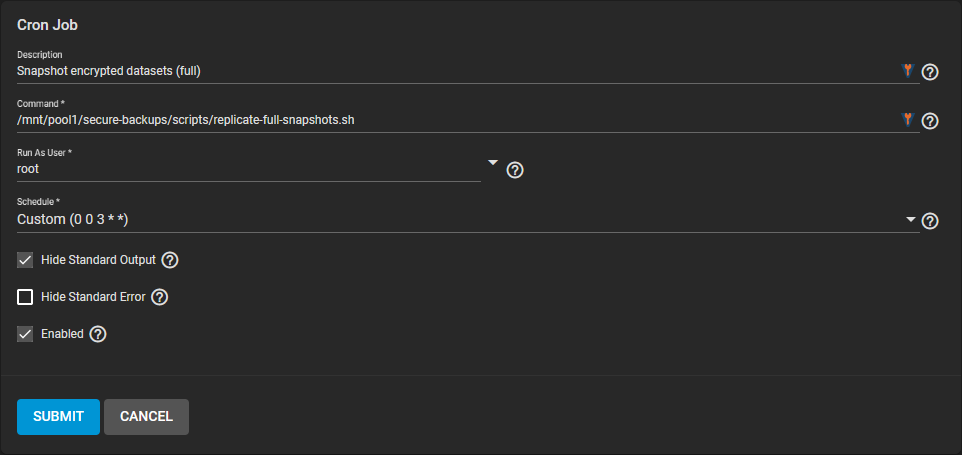
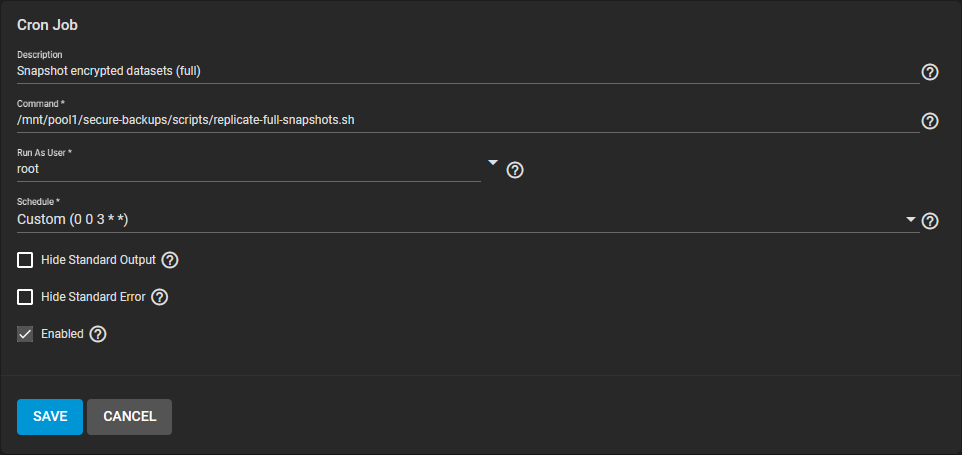
work in progress

diff --git a/content/notes/zfs-encrypted-backups/index.md b/content/notes/zfs-encrypted-backups/index.md
@@ -16,11 +16,13 @@ One of the neat features of ZFS is that you can make backups of encrypted data w
 
 I have some files that I access rarely but I still want to keep on an encrypted dataset.
 
-On my previous Synology NAS, there was no way to back up an encrypted volume. If files were on an encrypted volume, the data was completely inaccessible to anything until you unlocked it. That made it difficult to
+On my previous Synology NAS, there was no way to back up an encrypted volume. If files were on an encrypted volume, the data was completely inaccessible to anything until you unlocked it. That meant that whenever the drive is locked, I can't update my backups for that volume. For most of my data, that's okay, but what about volumes I access infrequently?
 
-TrueNAS is better! You can take snapshots of an encrypted dataset and even replicate an encrypted dataset to another server without ever decrypting the data. This seemed like a great way for me to maintain backups of data I wanted to back up without having to decrypte it all the time.
+TrueNAS is better! You can take snapshots of an encrypted dataset and even replicate an encrypted dataset to another server without ever decrypting the data. This seemed like a great way for me to maintain backups of data I wanted to back up without having to decrypt it all the time.
 
-## Trying to
+It took a bit of tinkering and creating manual scripts, but I got it working.
+
+## Trying to back up encrypted datasets through TrueNAS
 
 To demonstrate what I'm trying to do, I created a dataset called `diary-entries`.
 
@@ -154,7 +156,180 @@ $ cat /mnt/pool1/diary-entries-backup3/2022-07-05.txt
 I enjoy Taylor Swift, but I don’t want anyone to know
 ```
 
-Hooray! It worked. I can
+Hooray! It worked.
+
+I can back up an encrypted dataset to a file on an unencrypted dataset, then recreate the encrypted dataset from that snapshot.
+
+## Creating incremental backups
+
+One of the datasets I plan to back up this way is for video captures of my screencasts. That dataset is currently 12 GB and will likely grow. If I'm performing daily backups, I don't want a new 120 GB snapshot file every day.
+
+Fortunately, ZFS supports incremental backups. If you snapshot a dataset on Monday and then again on Tuesday, you don't have to create a full backup file for both Monday and Tuesday. Instead, your Tuesday backup can just be the delta between the two snapshots.
+
+To demonstrate, I'll add a little more to my `diary-entries` dataset:
+
+```bash
+echo "Upon reflection, I'm not ashamed of how much I enjoy Blank Space" \
+  > /mnt/pool1/diary-entries/2022-07-06.txt
+```
+
+And now I'll create a new snapshot that includes the latest entry:
+
+```bash
+zfs snapshot pool1/diary-entries@2022-07-06
+```
+
+And now I'll create an incremental backup relative to the `2022-07-05` snapshot:
+
+```bash
+zfs send \
+  --raw \
+  --verbose \
+  -i pool1/diary-entries@2022-07-05 \
+  pool1/diary-entries@2022-07-06 \
+  > /mnt/pool1/diary-entries-backup/snapshot@2022-07-06
+```
+
+Success! It created the new incremental backup:
+
+```bash
+$ du -h /mnt/pool1/diary-entries-backup/*
+ 24K    /mnt/pool1/diary-entries-backup/snapshot@2022-07-05
+6.5K    /mnt/pool1/diary-entries-backup/snapshot@2022-07-06
+```
+
+It's a little silly on this demo because my files are tiny anyway, but you can still see that the second snapshot is substantially smaller than the first because it contains only the changes since the `2022-07-05` snapshot.
+
+## Scripting backups
+
+Now that I understand the mechanics, it's time to create a shell script so that I can set up TrueNAS to run this backup task on a regular schedule.
+
+To start, I'll create a file called `settings.sh` to define everything that's specific to my system:
+
+```bash
+readonly POOL="mypool"
+readonly BASE_DIR="/mnt/${POOL}/encrypted-backups"
+readonly FULL_SNAPSHOTS_DIR="${BASE_DIR}/full-snapshots"
+readonly INCREMENTAL_SNAPSHOTS_DIR="${BASE_DIR}/incremental-snapshots"
+
+DATASETS=()
+DATASETS+=("documents")
+DATASETS+=("music")
+DATASETS+=("emails")
+readonly DATASETS
+```
+
+And now I'll make a script that creates full backups of my datasets:
+
+```bash
+#!/bin/bash
+
+# Create full snapshots of datasets in DATASETS array.
+
+set -eux
+
+. settings.sh
+
+mkdir -p "${FULL_SNAPSHOTS_DIR}"
+
+TIMESTAMP="$(date -Iseconds | sed 's/://g' | sed 's/+0000/Z/g')"
+readonly TIMESTAMP
+
+for DATASET in "${DATASETS[@]}"; do
+  # Take a snapshot.
+  SNAPSHOT_NAME="${POOL}/${DATASET}@${TIMESTAMP}"
+  zfs snapshot "${SNAPSHOT_NAME}"
+
+  # Write the snapshot to a file.
+  OUTPUT_FILENAME="${SNAPSHOT_NAME//${POOL}\//}"
+  zfs send --raw --verbose "${SNAPSHOT_NAME}" > "${FULL_SNAPSHOTS_DIR}/${OUTPUT_FILENAME}"
+done
+```
+
+The script iterates through each of the datasets I defined in `settings.sh`, creates a new snapshot, then creates a full backup of that dataset.
+
+Next, I want a script that creates incremental backups:
+
+```bash
+#!/bin/bash
+
+# Create incremental snapshots of datasets in DATASETS array relative to their
+# last full snapshot.
+
+set -eux
+
+. settings.sh
+
+mkdir -p "${INCREMENTAL_SNAPSHOTS_DIR}"
+
+TIMESTAMP="$(date -Iseconds | sed 's/://g' | sed 's/+0000/Z/g')"
+readonly TIMESTAMP
+
+for DATASET in "${DATASETS[@]}"; do
+  # Take a snapshot.
+  INCREMENTAL_SNAPSHOT="${POOL}/${DATASET}@${TIMESTAMP}"
+  zfs snapshot "${INCREMENTAL_SNAPSHOT}"
+
+  # Find the most recent full snapshot.
+  BASE_SNAPSHOT_FILENAME="$(basename "$(ls -tr "${FULL_SNAPSHOTS_DIR}/${DATASET}"* | tail -1)")"
+  BASE_SNAPSHOT="${POOL}/${BASE_SNAPSHOT_FILENAME}"
+
+  # Write the incremental snapshot to a file.
+  OUTPUT_FILENAME="${INCREMENTAL_SNAPSHOT//${POOL}\//}"
+  OUTPUT_PATH="${INCREMENTAL_SNAPSHOTS_DIR}/${OUTPUT_FILENAME}"
+  zfs send --raw --verbose -i "${BASE_SNAPSHOT}" "${INCREMENTAL_SNAPSHOT}" \
+    > "${OUTPUT_PATH}"
+done
+```
+
+## Recovering a backup
+
+I also created a convenience script called `snapshot-to-dataset.sh` that translates backup files back into a ZFS dataset:
+
+```bash
+#!/bin/bash
+#
+# Recover a dataset from an encrypted snapshot.
+#
+# Usage:
+#   ./snapshot-to-dataset.sh new-dataset-name full-snapshot-path [incremental-snapshot-path]
+
+set -ex
+
+. settings.sh
+
+NEW_DATASET_NAME="$1"
+readonly NEW_DATASET_NAME
+
+FULL_SNAPSHOT_PATH="$2"
+readonly FULL_SNAPSHOT_PATH
+
+INCREMENTAL_SNAPSHOT_PATH="$3"
+readonly INCREMENTAL_SNAPSHOT_PATH
+
+set -u
+
+# Restore from base snapshot
+zfs receive "${POOL}/${NEW_DATASET_NAME}" < "${FULL_SNAPSHOT_PATH}"
+
+if [[ -n "${INCREMENTAL_SNAPSHOT_PATH}" ]]; then
+  # Update dataset to latest incremental snapshot
+  zfs receive "${POOL}/${NEW_DATASET_NAME}" < "${INCREMENTAL_SNAPSHOT_PATH}"
+fi
+```
+
+Before, we just called `zfs receive`, but it gets a little complicated when we're working with incremental backups, so the convenience script simplifies things. To recover my `diary-entries` dataset using my full backup and incremental backup, I'd run the following command:
+
+```bash
+./snapshot-to-dataset.sh \
+  diary-entries-backup4 \
+  /mnt/pool1/diary-entries-backup/snapshot@2022-07-05 \
+  /mnt/pool1/diary-entries-backup/snapshot@2022-07-06
+```
+
+And it works! It recovers a dataset using my full backup and incremental backup:
+
+{{<img src="dataset4.png">}}
 
 ## The clean solution
 
@@ -167,3 +342,9 @@ I've created a set of convenience scripts:
 {{<img src="monthly-cron.png">}}
 
 Starting at 3 AM because sometimes I'm still awake and using my computer at midnight.
+
+{{<img src="daily-cron.png">}}
+
+```bash
+tail /var/log/cron
+```
